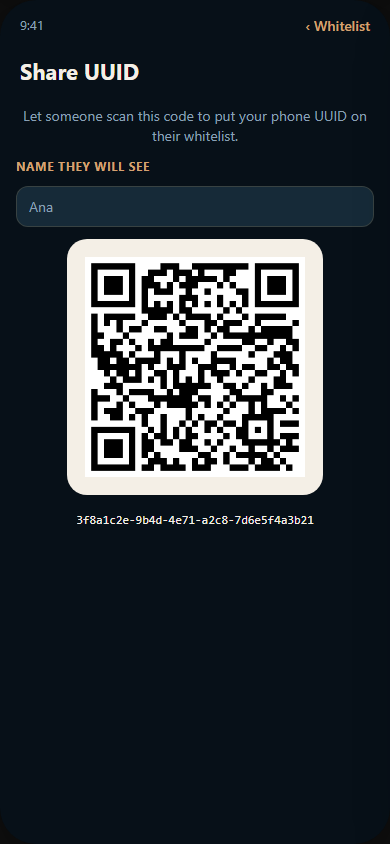
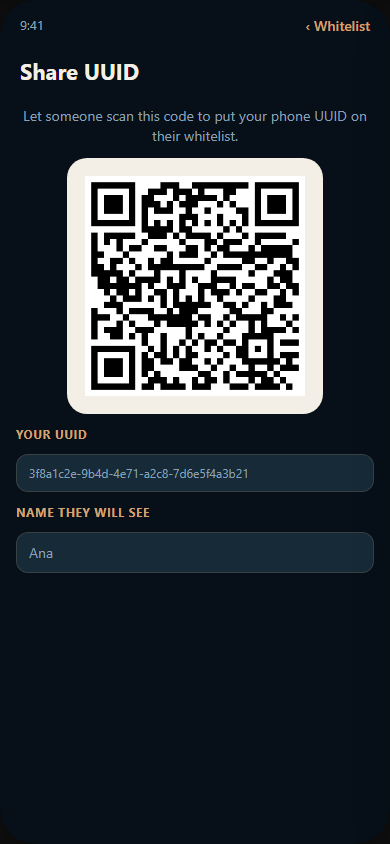
Clarify Share UUID: one name field, UUID is read-only.

Changed region(s): [[0.0308, 0.1848, 0.9846, 0.6777]]

diff --git a/src/i18n/locales.ts b/src/i18n/locales.ts
@@ -88,9 +88,11 @@ const es: PartialTx = {
   'whitelist.confirmAdd': 'Añadir este móvil',
   'shareQr.title': 'Compartir UUID',
   'shareQr.lead': 'Que alguien escanee este código para poner tu UUID en su lista blanca.',
+  'shareQr.yourUuid': 'Tu UUID',
+  'shareQr.uuidHint': 'Solo lectura. Toca para verlo; selecciónalo para copiar.',
   'shareQr.name': 'Nombre que verán',
-  'shareQr.nameHint': 'Opcional. Va en el QR para que te identifiquen.',
-  'shareQr.namePlaceholder': 'Tu nombre o este móvil…',
+  'shareQr.nameHint': 'Apodo opcional, no es un UUID. Va en el QR para que te reconozcan.',
+  'shareQr.namePlaceholder': 'p. ej. Ana…',
   'scanQr.title': 'Escanear UUID',
   'scanQr.lead': 'Apunta la cámara al QR de Message in a Bottle de otro móvil.',
   'scanQr.permission': 'Hace falta la cámara para escanear un QR de UUID.',
@@ -273,9 +275,11 @@ const fr: PartialTx = {
   'whitelist.confirmAdd': 'Ajouter ce téléphone',
   'shareQr.title': 'Partager l’UUID',
   'shareQr.lead': 'Faites scanner ce code pour placer votre UUID sur leur liste blanche.',
+  'shareQr.yourUuid': 'Votre UUID',
+  'shareQr.uuidHint': 'Lecture seule. Touchez pour l’afficher ; sélectionnez pour copier.',
   'shareQr.name': 'Nom qu’ils verront',
-  'shareQr.nameHint': 'Facultatif. Encodé dans le QR pour vous identifier.',
-  'shareQr.namePlaceholder': 'Votre nom ou ce téléphone…',
+  'shareQr.nameHint': 'Surnom facultatif, pas un UUID. Mis dans le QR pour vous reconnaître.',
+  'shareQr.namePlaceholder': 'ex. Ana…',
   'scanQr.title': 'Scanner l’UUID',
   'scanQr.lead': 'Visez le QR Message in a Bottle d’un autre téléphone.',
   'scanQr.permission': 'La caméra est requise pour scanner un QR d’UUID.',
@@ -458,9 +462,11 @@ const de: PartialTx = {
   'whitelist.confirmAdd': 'Dieses Telefon hinzufügen',
   'shareQr.title': 'UUID teilen',
   'shareQr.lead': 'Jemand scannt diesen Code, um deine UUID auf seine Whitelist zu setzen.',
+  'shareQr.yourUuid': 'Deine UUID',
+  'shareQr.uuidHint': 'Nur lesen. Tippen zum Anzeigen; Text markieren zum Kopieren.',
   'shareQr.name': 'Name, den sie sehen',
-  'shareQr.nameHint': 'Optional. Steckt im QR, damit man dich erkennt.',
-  'shareQr.namePlaceholder': 'Dein Name oder dieses Telefon…',
+  'shareQr.nameHint': 'Optionaler Spitzname, keine UUID. Steckt im QR, damit man dich erkennt.',
+  'shareQr.namePlaceholder': 'z. B. Ana…',
   'scanQr.title': 'UUID scannen',
   'scanQr.lead': 'Halte die Kamera auf den Message-in-a-Bottle-QR eines anderen Telefons.',
   'scanQr.permission': 'Kamera zugriff wird zum Scannen eines UUID-QR benötigt.',
@@ -643,9 +649,11 @@ const it: PartialTx = {
   'whitelist.confirmAdd': 'Aggiungi questo telefono',
   'shareQr.title': 'Condividi UUID',
   'shareQr.lead': 'Qualcuno scansiona questo codice per mettere il tuo UUID nella sua whitelist.',
+  'shareQr.yourUuid': 'Il tuo UUID',
+  'shareQr.uuidHint': 'Sola lettura. Tocca per vederlo; seleziona per copiare.',
   'shareQr.name': 'Nome che vedranno',
-  'shareQr.nameHint': 'Facoltativo. Va nel QR così ti riconoscono.',
-  'shareQr.namePlaceholder': 'Il tuo nome o questo telefono…',
+  'shareQr.nameHint': 'Soprannome opzionale, non è un UUID. Va nel QR così ti riconoscono.',
+  'shareQr.namePlaceholder': 'es. Ana…',
   'scanQr.title': 'Scansiona UUID',
   'scanQr.lead': 'Inquadra il QR Message in a Bottle di un altro telefono.',
   'scanQr.permission': 'Serve la fotocamera per scansionare un QR di UUID.',

diff --git a/app/share-qr.tsx b/app/share-qr.tsx
@@ -1,4 +1,4 @@
-import { StyleSheet, Text, TextInput, View } from 'react-native';
+import { Alert, Pressable, StyleSheet, Text, TextInput, View } from 'react-native';
 import QRCode from 'react-native-qrcode-svg';
 
 import { encodeDeviceQr } from '@/src/domain/qr';
@@ -12,6 +12,23 @@ export default function ShareQrScreen() {
   return (
     <View style={styles.screen}>
       <Text style={styles.lead}>{t('shareQr.lead')}</Text>
+
+      <View style={styles.qrCard}>
+        <QRCode value={payload} size={240} backgroundColor={colors.paper} color={colors.ink} />
+      </View>
+
+      <Text style={styles.fieldLabel}>{t('shareQr.yourUuid')}</Text>
+      <Pressable
+        onPress={() => {
+          Alert.alert(t('shareQr.yourUuid'), settings.deviceId);
+        }}
+        style={styles.uuidBox}>
+        <Text selectable style={styles.uuid}>
+          {settings.deviceId}
+        </Text>
+        <Text style={styles.uuidHint}>{t('shareQr.uuidHint')}</Text>
+      </Pressable>
+
       <Text style={styles.fieldLabel}>{t('shareQr.name')}</Text>
       <Text style={styles.hint}>{t('shareQr.nameHint')}</Text>
       <TextInput
@@ -21,17 +38,6 @@ export default function ShareQrScreen() {
         placeholderTextColor={colors.muted}
         style={styles.input}
       />
-      <View style={styles.card}>
-        <QRCode
-          value={payload}
-          size={240}
-          backgroundColor={colors.paper}
-          color={colors.ink}
-        />
-      </View>
-      <Text selectable style={styles.uuid}>
-        {settings.deviceId}
-      </Text>
     </View>
   );
 }
@@ -45,6 +51,12 @@ const styles = StyleSheet.create({
     gap: 10,
   },
   lead: { color: colors.muted, fontSize: 14, lineHeight: 20, textAlign: 'center' },
+  qrCard: {
+    backgroundColor: colors.paper,
+    padding: 20,
+    borderRadius: 20,
+    marginVertical: 8,
+  },
   fieldLabel: {
     color: colors.sand,
     fontWeight: '700',
@@ -52,6 +64,7 @@ const styles = StyleSheet.create({
     letterSpacing: 0.6,
     textTransform: 'uppercase',
     alignSelf: 'stretch',
+    marginTop: 8,
   },
   hint: { color: colors.muted, fontSize: 13, lineHeight: 18, alignSelf: 'stretch' },
   input: {
@@ -64,11 +77,15 @@ const styles = StyleSheet.create({
     borderWidth: 1,
     borderColor: colors.line,
   },
-  card: {
-    backgroundColor: colors.paper,
-    padding: 20,
-    borderRadius: 20,
-    marginTop: 8,
+  uuidBox: {
+    alignSelf: 'stretch',
+    backgroundColor: colors.card,
+    borderRadius: 12,
+    padding: 12,
+    borderWidth: 1,
+    borderColor: colors.line,
+    gap: 4,
   },
-  uuid: { color: colors.paper, fontSize: 12, textAlign: 'center' },
+  uuid: { color: colors.paper, fontSize: 13 },
+  uuidHint: { color: colors.muted, fontSize: 12 },
 });

diff --git a/docs/screenshots.html b/docs/screenshots.html
@@ -268,12 +268,13 @@
       <div class="header">Share UUID</div>
       <div class="body" style="align-items:center; padding-top: 8px;">
         <p class="lead center">Let someone scan this code to put your phone UUID on their whitelist.</p>
-        <div class="lbl" style="align-self:stretch">Name they will see</div>
-        <div class="field" style="align-self:stretch">Ana</div>
         <div class="qr-wrap">
           <img src="images/sample-uuid-qr.png" alt="UUID QR code">
         </div>
-        <p class="mono center">3f8a1c2e-9b4d-4e71-a2c8-7d6e5f4a3b21</p>
+        <div class="lbl" style="align-self:stretch">Your UUID</div>
+        <div class="field" style="align-self:stretch;font-size:12px">3f8a1c2e-9b4d-4e71-a2c8-7d6e5f4a3b21</div>
+        <div class="lbl" style="align-self:stretch">Name they will see</div>
+        <div class="field" style="align-self:stretch">Ana</div>
       </div>
     </div>
 

diff --git a/src/i18n/en.ts b/src/i18n/en.ts
@@ -82,9 +82,11 @@ export const EN = {
   'whitelist.confirmAdd': 'Add this phone',
   'shareQr.title': 'Share UUID',
   'shareQr.lead': 'Let someone scan this code to put your phone UUID on their whitelist.',
+  'shareQr.yourUuid': 'Your UUID',
+  'shareQr.uuidHint': 'Read-only. Tap to view; select the text to copy.',
   'shareQr.name': 'Name they will see',
-  'shareQr.nameHint': 'Optional. Encoded in the QR so they can identify you.',
-  'shareQr.namePlaceholder': 'Your name or this phone…',
+  'shareQr.nameHint': 'Optional nickname, not a UUID. Stored in the QR so they can label you.',
+  'shareQr.namePlaceholder': 'e.g. Ana…',
   'scanQr.title': 'Scan UUID',
   'scanQr.lead': 'Point the camera at another phone’s Message in a Bottle QR.',
   'scanQr.permission': 'Camera access is needed to scan a UUID QR code.',
